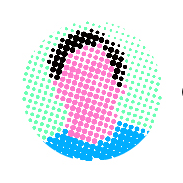
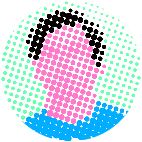
Footer

diff --git a/_sass/_footer.scss b/_sass/_footer.scss
@@ -1,8 +1,23 @@
-.me
+#me
 {
 	img
 	{
 		max-width: 100%;
 	    transform: translateY(-33%);
+	    margin: auto;
+	    display: block;
+	}
+}
+
+#footer-bar
+{
+    margin-top: 3rem;
+	p
+	{
+		text-align: center;
+		padding-top: 1.5rem;
+		padding-bottom: 1.5rem;
+		color: white;
+		margin: 0;
 	}
 }

diff --git a/_sass/_colours.scss b/_sass/_colours.scss
@@ -32,3 +32,8 @@ ul.gallery
 	    }
 	}    
 }
+
+#footer-bar
+{
+	background-color: #00ffff;
+}

diff --git a/footer.php b/footer.php
@@ -1,19 +1,23 @@
 		<?php 
             // vars
-            $meHeading = get_field('');
-            $profilePic = get_field('');
-            $meBlurb = get_field('');
+            $meHeading = get_field('me_heading', 15);
+            $profilePic = get_field('footer_profile_pic', 15);
+            $meBlurb = get_field('footer_blurb', 15);
+            $endNote = get_field('end_note', 2);
             // add other vars for alternative footer
         ?>
 
 		<div class="container" id="me">
-            <h2 class="main-heading">Me</h2>
+            <h2 class="main-heading"><?php echo $meHeading; ?></h2>
             <div class="boxed-content">
                 <div class="two columns">
-                    <img src="<?php theActiveThemeDirectory(); ?>img/metod_profile_screenshot.png">
+                    <img src="<?php echo $profilePic['url'] ; ?>">
                 </div>
-                <div class="ten columns">I work multidisciplinary across experimental art, facilitation, design and photography. I tend to explore strategies and formats around how to engage myself and others in an exchanging dialogue.</div>
+                <div class="ten columns"><?php echo $meBlurb; ?></div>
             </div>
+        </div>
+        <div id="footer-bar">
+            <p><?php echo $endNote; ?></p>
         </div>
 
         <script src="<?php theJQueryDirectory(); ?>jquery.min.js"></script>
